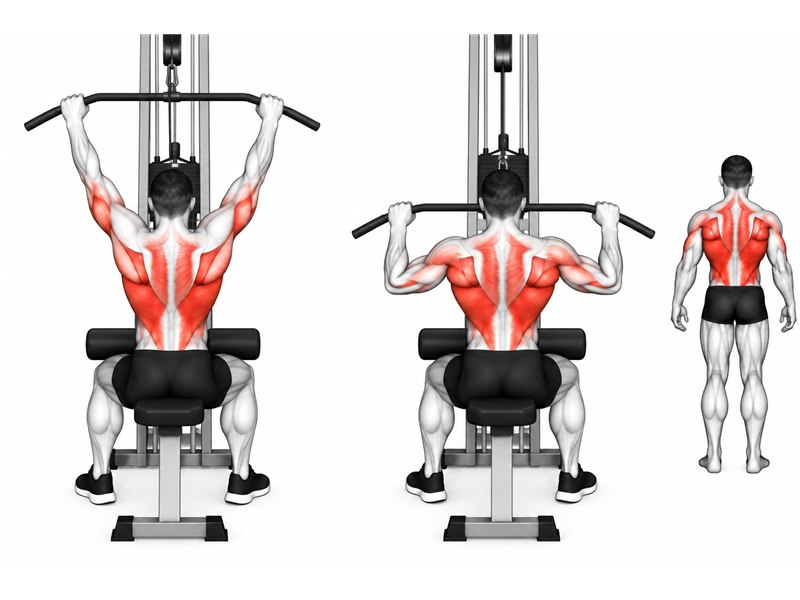
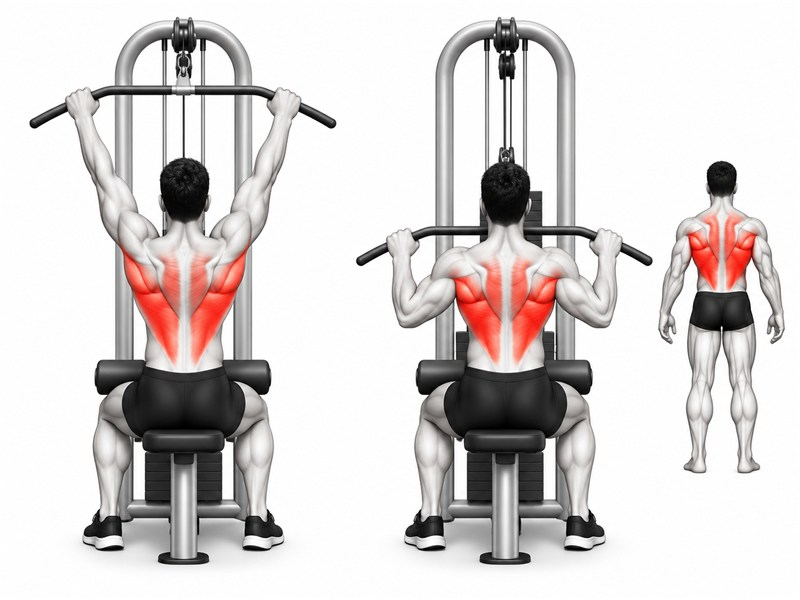
New Lat Pulldown illustration (photo version 25)

diff --git a/index.html b/index.html
@@ -8,7 +8,7 @@
 // Zelf-verversen: een verouderde (gecachete) pagina, bv. via een icoon op het
 // beginscherm, vergelijkt zijn buildnummer met version.json en laadt zichzelf
 // dan opnieuw via een nieuwe URL (?b=...). Zie tools/bump-build.js.
-window.PRIME_BUILD = '20261126-2322';
+window.PRIME_BUILD = '20261128-1106';
 (function () {
   try {
     fetch('version.json?ts=' + Date.now(), { cache: 'no-store' })
@@ -46,12 +46,12 @@ if ('serviceWorker' in navigator) {
 <meta name="theme-color" content="#213d36">
 <meta name="apple-mobile-web-app-title" content="HealthPotential">
 <link href="https://fonts.googleapis.com/css2?family=DM+Serif+Display:ital@0;1&family=DM+Sans:wght@300;400;500;600;700&display=swap" rel="stylesheet">
-<link rel="stylesheet" href="css/styles.css?v=20261126-2322">
+<link rel="stylesheet" href="css/styles.css?v=20261128-1106">
 <!-- Supabase-client staat lokaal (vastgezet op 2.116.0), zodat inloggen niet afhangt van een externe CDN. -->
 <script src="js/vendor/supabase-2.116.0.js"></script>
-<script src="js/cloud.js?v=20261126-2322"></script>
-<script src="js/translations.js?v=20261126-2322"></script>
-<script src="js/i18n.js?v=20261126-2322"></script>
+<script src="js/cloud.js?v=20261128-1106"></script>
+<script src="js/translations.js?v=20261128-1106"></script>
+<script src="js/i18n.js?v=20261128-1106"></script>
 </head>
 <body>
 
@@ -1943,6 +1943,6 @@ if ('serviceWorker' in navigator) {
 
 </div><!-- /app-shell -->
 
-<script src="js/auth.js?v=20261126-2322"></script>
+<script src="js/auth.js?v=20261128-1106"></script>
 </body>
 </html>

diff --git a/js/data.js b/js/data.js
@@ -250,7 +250,7 @@ const EXTRA_EXERCISES = [
 
 // Cache-busting: zelfde reden als PRODUCT_PHOTO_VERSION hierboven -- ophogen
 // zodra een foto in EXTRA_EXERCISES vervangen wordt.
-const EXTRA_EXERCISE_PHOTO_VERSION = 24;
+const EXTRA_EXERCISE_PHOTO_VERSION = 25;
 EXTRA_EXERCISES.forEach(group => group.exercises.forEach(ex => { if (ex.photo && ex.photo.startsWith('images/')) ex.photo += '?v=' + EXTRA_EXERCISE_PHOTO_VERSION; }));
 
 
